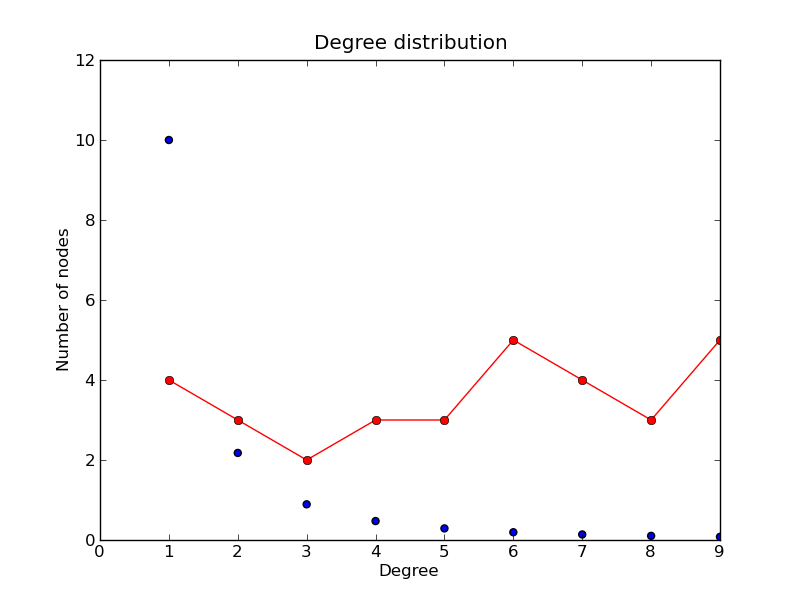
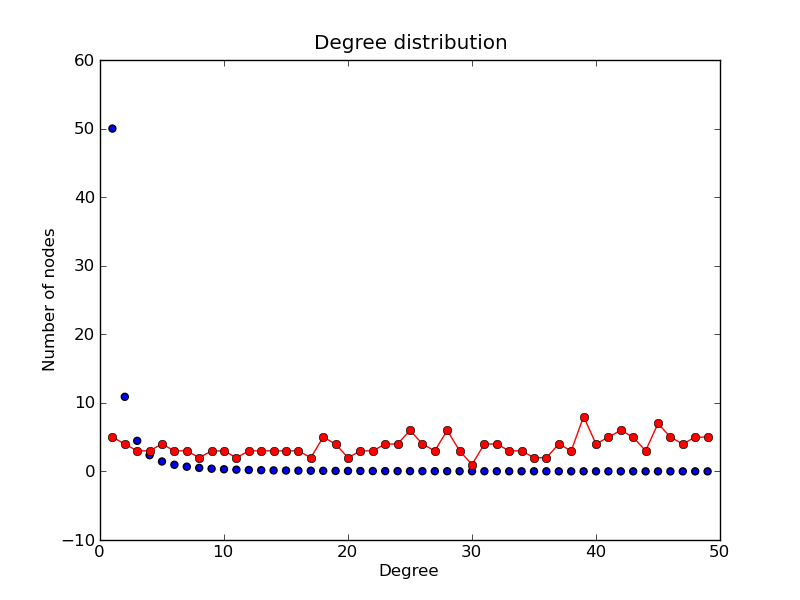
modifications finales sur CGraph.py + modifs sur pyAG_AGGP

diff --git a/Algo/CGraph.py b/Algo/CGraph.py
@@ -10,6 +10,7 @@ class CGraph:
     """ Initialisation du graph """
     def __init__(self,nbNodes):
         self.nbNodes = nbNodes
+        self.graph = None
         
         ThDegres = range(1,self.nbNodes) # Distribution theorique
         ThDegres.reverse()
@@ -61,8 +62,6 @@ class CGraph:
         #     li.insert(0,0)
         #     self.genome += li
             #print "End loop"
-        
-        self.createGraph()
 
 
     def fit2distri(self):
@@ -83,53 +82,49 @@ class CGraph:
             d = abs(eff[i+1] - ThDistrib[i])
             res += d/(d+ThDistrib[i])            
 
-        # TMP
-        Deg = self.graph.degree().keys()
-        Val = self.graph.degree().values()
-        plt.figure()
-        plt.plot(Deg[1:],Val[1:],'ro-') #in-degree
-        plt.xlabel('Degree')
-        plt.ylabel('Number of nodes')
-        plt.title('Degree distribution')
-
-        for x in Deg:
-                if x!=0:
-                        plt.scatter(x,self.nbNodes*x**(-2.2),c="blue")
-
-        plt.savefig('DegreeDistrib.png')
-        plt.close()
-
         # ATTENTION : lorsqu'on converge vers un scale-free: queue de distrib
         # tendant vers 0 : avg_res tend vers 1 !
         return res/self.nbNodes
-    
+      
 
     def clustering(self):
         """ Renvoie le coeff de clustering moyen """
         return nx.average_clustering(self.graph)
 
+
     def smallWorld(self):
         """ Renvoie le plus court chemin moyen entre deux noeuds """
         # On vise une valeur de 2.5
         return 1 - abs((nx.average_shortest_path_length(self.graph)-2.5)/(nx.average_shortest_path_length(self.graph)))
-                                                                  
+
+                                                                   
     def fitness(self,a,b,c):
+        """ On cree le graphe, calcule la fitness et on supprime le graph juste apres """
+        self.createGraph()
+
         # Lorsque la fitness vaut 0 : fitness minimale. Fitness max = 1
-        return (a*self.fit2distri() + b*self.clustering() + c*self.smallWorld())/(a+b+c)
+        res = (a*self.fit2distri() + b*self.clustering() + c*self.smallWorld())/(a+b+c)
+
+        self.deleteGraph()
+        self.graph = None
+        
+        return res
+
 
     def genome2adj(self):
-         """ Remplissage et creation de la matrice d'adjacence """
-         Adj = zeros(shape=(self.nbNodes,self.nbNodes))
-         i = 0
-         N = self.nbNodes
+        """ Remplissage et creation de la matrice d'adjacence """
+        Adj = zeros(shape=(self.nbNodes,self.nbNodes))
+        i = 0
+        N = self.nbNodes
 
-         while i < len(self.genome):
-             for j in range(N):
-                 Adj[self.nbNodes - N, self.nbNodes - N +j] = Adj[self.nbNodes - N +j,self.nbNodes-N] = self.genome[i+j]
-             i+=N
-             N-=1
+        while i < len(self.genome):
+            for j in range(N):
+                Adj[self.nbNodes - N, self.nbNodes - N +j] = Adj[self.nbNodes - N +j,self.nbNodes-N] = self.genome[i+j]
+            i+=N
+            N-=1
 
-         return Adj
+        return Adj
+        
 
     def createGraph(self):
         """ Creation du graphe a partir de la matrice d'adjacence """	
@@ -143,13 +138,12 @@ class CGraph:
                 if i<j :		# Pour n'ajouter que la partie superieure de la matrice
                     if Adj[i,j]==1:	
                         self.graph.add_edge(i,j)	# Ajout des aretes
+                        
 
-    def drawGraph(self): 
-        """ Sauve le graphe dans un fichier png """
-        nx.draw(self.graph)
-        plt.savefig("Graph.png")
-        plt.close()
- 
+    def deleteGraph(self):
+        if self.graph is not None:
+            self.graph.clear()
+
     
     def robustness(self):
         """ On pete un a un les noeuds du graphe en constatant l'effet sur la fitness.
@@ -162,25 +156,51 @@ class CGraph:
         for n in range(len(self.graph.nodes())):
             self.graph.remove_node(n)
             self.nbNodes -= 1
-
             Fit.append(self.fitness(a,b,c))
             self.graph = save.copy()
             self.nbNodes += 1
-            #print self.fitness(a,b,c)
-            #print self.graph.number_of_nodes()
 
         Fit.sort()
+        self.plotRobustess(Nodes,Fit)
+        
 
-        # Plot n' Features
+    def plotRobustess(self,nodes,fit):
+        """ Plot l'ecart par rapport a la fitness d'origine pour chaque noeud retire """
         plt.grid()
         plt.plot(Nodes,[self.fitness(a,b,c)]*self.nbNodes,'--',c="blue")
-        plt.scatter(Nodes, Fit, c="red")
+        plt.scatter(nodes, fit, c="red")
         plt.ylim(0,1)
         plt.xlim(0,self.nbNodes)
         plt.legend(("Fitness du graph","Fitness apres deletion"),"upper right")
         plt.title("Mesure de la robustesse du graphe")
         plt.savefig('Robustesse.png')
         plt.close()
+
+
+    def plotGraphDistri(self):
+        """ Plot la distribution des degres du graphe """
+        Deg = self.graph.degree().keys()
+        Val = self.graph.degree().values()
+        plt.figure()
+        plt.plot(Deg[1:],Val[1:],'ro-') #in-degree
+        plt.xlabel('Degree')
+        plt.ylabel('Number of nodes')
+        plt.title('Degree distribution')
+
+        for x in Deg:
+                if x!=0:
+                        plt.scatter(x,self.nbNodes*x**(-2.2),c="blue")
+        plt.savefig('DegreeDistrib.png')
+        plt.close()
+
+
+    def plotGraph(self): 
+        """ Sauve le graphe dans un fichier png """
+        nx.draw(self.graph)
+        plt.savefig("Graph.png")
+        plt.close()
+ 
+        
 
         
             
@@ -196,21 +216,21 @@ c = 0.25
 print "Oo---TESTS UNITAIRES FONCTIONNELS---oO"
 print "\n#--STEP : Graph init--#"
 G = CGraph(50)
-print "\n#--STEP : Drawing--#"
-G.drawGraph()
-print "\n#--STEP : fit2distri--#"
-print G.fit2distri()
-print "\n#--STEP : clustering--#"
-print G.clustering()
-print "\n#--STEP : smallWorld--#"
-print G.smallWorld()
+# print "\n#--STEP : Drawing--#"
+# G.plotGraph()
+# print "\n#--STEP : fit2distri--#"
+# print G.fit2distri()
+# print "\n#--STEP : clustering--#"
+# print G.clustering()
+# print "\n#--STEP : smallWorld--#"
+# print G.smallWorld()
 print "\n#--STEP : fitness--#"
 print G.fitness(a,b,c)
-print "\n#--STEP : verification fitness--#"
-print G.fitness(a,b,c) == a*G.fit2distri() + b*G.clustering() + c*G.smallWorld()
-print "\n#--STEP : robustesse--#"
-t1 = time.time()
-G.robustness()
-t2 = time.time()
+#print "\n#--STEP : verification fitness--#"
+# print G.fitness(a,b,c) == a*G.fit2distri() + b*G.clustering() + c*G.smallWorld()
+#print "\n#--STEP : robustesse--#"
+#t1 = time.time()
+#G.robustness()
+#t2 = time.time()
 
-print "Temps d'execution de robustness() : {0:.4}s".format(str(t2-t1))
+#print "Temps d'execution de robustness() : {0:.4}s".format(str(t2-t1))

diff --git a/Algo/pyAG_AGGP.py b/Algo/pyAG_AGGP.py
@@ -21,51 +21,53 @@ import CGraph
 
 
 
-# def index(N,x):
-#     ind = 0
-#     j=0
-#     while x>ind:
-# 	ind += N-j
-# 	j+=1
-#     return j-1
+
 
 class pyAG:
     def __init__(self,N,prod,txMut,txCross,fita,fitb,fitc):
 	self.N=N # Nombre d'individus par population
 	self.txMut=txMut # Taux de mutation
 	self.txCross=txCross # Taux de crossover
-	self.prod = prod # ?
-	self.pop = [prod() for i in range(N)] # ?
-	self.gen = 0 # ?
+	self.prod = prod # individu (graphe)
+	self.pop = [prod() for i in range(N)] # generation
+	self.gen = 0 # 
         self.newpop = None
-        self.fita=fita # Parametres pour la somme de fitness
-        self.fitb=fitb
-        self.fitc=fitc
+        self.fita=fita # 
+        self.fitb=fitb # Parametres pour la somme de fitness
+        self.fitc=fitc #
         self.fitness=[-1]*self.N
+
+    def index(N,x):
+    ind = 0
+    j=0
+    while x>ind:
+	ind += N-j
+	j+=1
+    return j-1
 	
     def new_pop(self):
         if self.newpop is not None:
             for i in range(len(self.newpop)):
-                self.newpop[i].clear() # Destruction des graphe de la generation precedente
+                # self.newpop[i].clear() # Destruction des graphe de la generation precedente
 
 	self.newpop=[]
         
 	for i in range(self.N):
 	    r = randint(0,(self.N+1)*(self.N)/2)
-	    x = index(self.N,r) # ?????????????????????????????????????????????????
+	    x = index(self.N,r)
 	    ## print x,self.fitness[x][0]
-	    self.newpop.append(self.prod(self.pop[self.fitness[x][1]].genome)) # ???? Pk fitness[x][1]
+	    self.newpop.append(self.prod(self.pop[self.fitness[x][1]].genome)) 
 
     def mutation(self):
-	for x in self.npop:
-	    g = x.genome
-	    for i in range(len(g)):
+	for graph in self.newpop:
+	    gen = graph.genome
+	    for i in range(len(gen)):
 		if random()<self.txMut:
-		    g[i]=1-g[i]
-	    x.genome=g
+		    gen[i]=1-gen[i]
+	    graph.genome=gen
 
     def cross(self):
-	for x in self.npop:
+	for x in self.newpop:
 	    if random()<self.txCross:
 		g = x.genome
 		r1= self.pop[randint(0,self.N-1)].genome
@@ -77,8 +79,10 @@ class pyAG:
 		x.genome=g
 
     def update(self):
-	self.pop=self.npop[:]
+	self.pop=self.newpop[:]
         # Attention a l'operateur de copie
+        # Delete dans newpop
+        # Il faudra supprimer chaque elt de pop et copier
 
     def calc_fitness(self):
         for i in range(self.N):
@@ -107,3 +111,6 @@ for x in ga.pop[ga.f[0][1]].genome:
     r+=2*x-1
     f.write("%d\n"%r)
 f.close()
+
+
+# BOUCLE 
